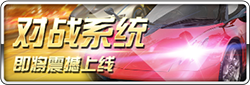
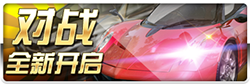
anqu ad

diff --git a/app.js b/app.js
@@ -138,6 +138,9 @@ var announcement_rmlite_140 = require('./routes/announcement_rmlite_140');
 //wanwan
 var announcement_wanwan_110 = require('./routes/announcement_wanwan_110');
 
+//anqu
+var announcement_120_anqu = require('./routes/announcement_120_anqu');
+
 var app = express();
 
 // view engine setup
@@ -285,6 +288,9 @@ app.use('/announcement_rmlite_140', announcement_rmlite_140);
 
 //wanwan
 app.use('/announcement_wanwan_110', announcement_wanwan_110);
+
+//anqu
+app.use('/announcement_120_anqu', announcement_120_anqu);
 
 /// catch 404 and forward to error handler
 app.use(function(req, res, next) {

diff --git a/routes/announcement_120_anqu.js b/routes/announcement_120_anqu.js
@@ -1,0 +1,9 @@
+var express = require('express');
+var router = express.Router();
+
+/* GET home page. */
+router.get('/', function(req, res) {
+  res.render('announcement_120_anqu', { title: 'Express' });
+});
+
+module.exports = router;
